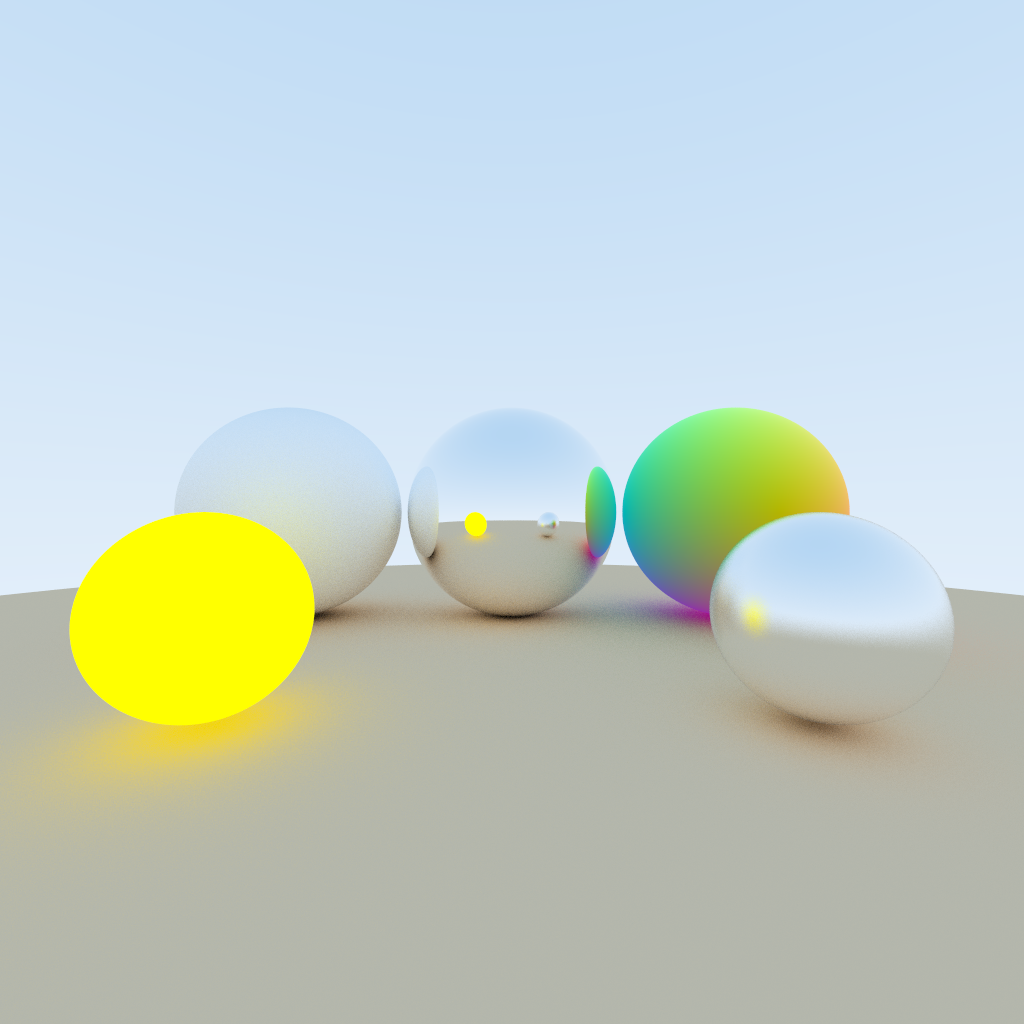
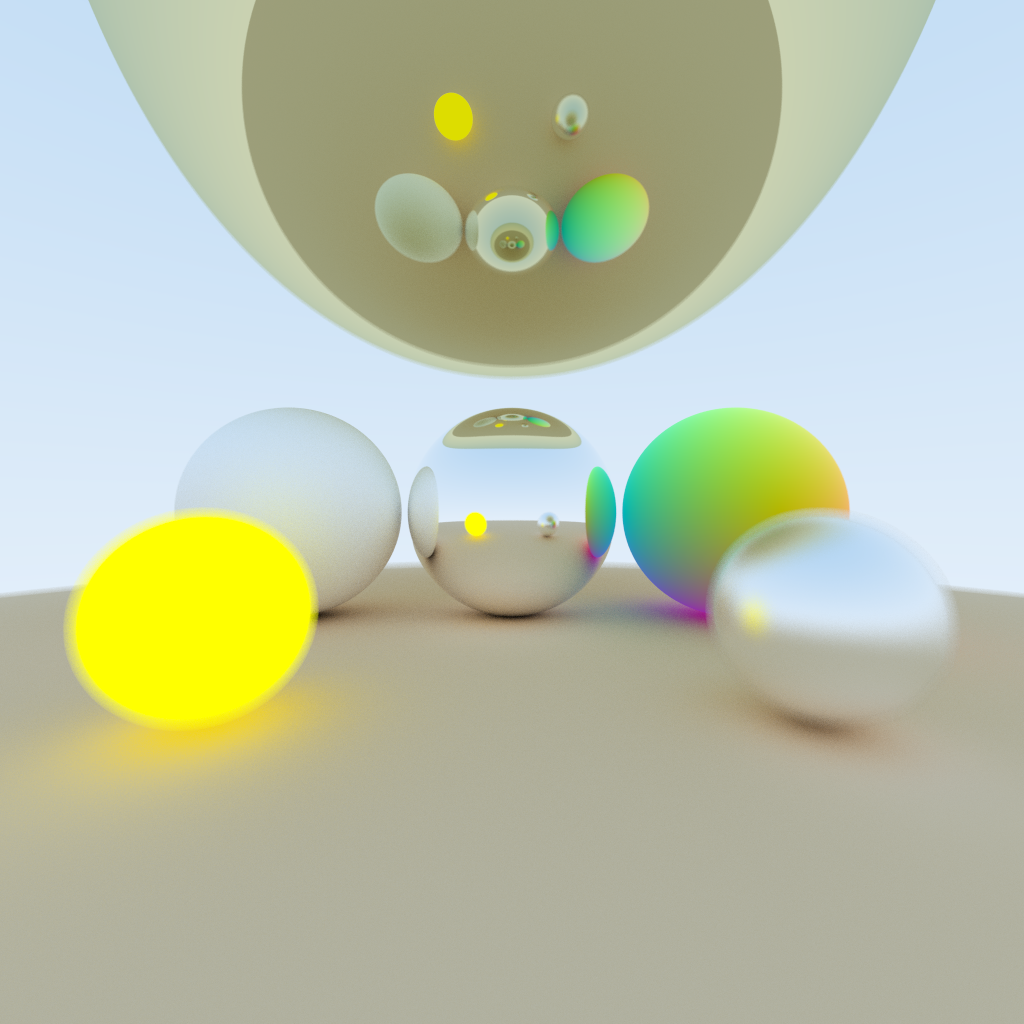
Added simple DOF.

diff --git a/src/main.rs b/src/main.rs
@@ -16,29 +16,50 @@ use scene::{ Hitable, Scene, Sphere, Material };
 
 const IMAGE_WIDTH: u32 = 1024;
 const IMAGE_HEIGHT: u32 = 1024;
-const PIXEL_SAMPLES: u32 = 128;
+const PIXEL_SAMPLES: u32 = 255;
 const MAX_DEPTH: u32 = 8;
+const LENS_RADIUS: f32 = 0.05;
+const FOCAL_DISTANCE: f32 = 5.0;
+
+fn generate_ray((x, y): (u32, u32), rng: &mut ThreadRng) -> Ray {
+    let pixel_sample_u: f32 = rng.gen();
+    let pixel_sample_v: f32 = rng.gen();
+    let pixel_u: f32 = (x as f32 + pixel_sample_u) / IMAGE_WIDTH as f32;
+    let pixel_v: f32 = 1.0 - (y as f32 + pixel_sample_v) / IMAGE_HEIGHT as f32;
+    let mut ray = Ray::new(
+        Vec3::new(0.0, 0.0, -5.0),
+        Vec3::new(-1.0 + pixel_u * 2.0, -1.0 + pixel_v * 2.0, 1.0),
+    );
+    ray.d.normalize();
+    let focus_point = ray.point_at(FOCAL_DISTANCE / ray.d.z);
+    let mut lens_sample = Vec3::new(0.0, 0.0, 0.0);
+    loop {
+        let (u, v): (f32, f32) = (rng.gen(), rng.gen());
+        lens_sample.x = 2.0 * u - 1.0;
+        lens_sample.y = 2.0 * v - 1.0;
+        lens_sample.z = 0.0;
+        if length_squared(&lens_sample) < 1.0 {
+            break;
+        }
+    }
+    lens_sample.normalize();
+    ray.o.x += lens_sample.x * LENS_RADIUS;
+    ray.o.y += lens_sample.y * LENS_RADIUS;
+    ray.d = &focus_point - &ray.o;
+    ray.d.normalize();
+    ray
+}
 
 fn render_scene(scene: &Scene, output_filename: &String) {
     let mut rng = rand::thread_rng();
-    let mut ray = Ray::new(
-        Vec3::new(0.0, 0.0, -5.0),
-        Vec3::new(0.0, 0.0, 1.0),
-    );
     let mut data = [0; IMAGE_WIDTH as usize * IMAGE_HEIGHT as usize * 4];
     let mut i = 0;
     for y in 0..IMAGE_HEIGHT {
         for x in 0..IMAGE_WIDTH {
             let mut color = Vec3::new(0.0, 0.0, 0.0);
             for _sample in 0..PIXEL_SAMPLES {
-                let ud: f32 = rng.gen();
-                let u: f32 = (x as f32 + ud as f32) / IMAGE_WIDTH as f32;
-                let vd: f32 = rng.gen();
-                let v: f32 = 1.0 - (y as f32 + vd) / IMAGE_HEIGHT as f32;
-                ray.d.x = -1.0 + u * 2.0;
-                ray.d.y = -1.0 + v * 2.0;
-                ray.d.z = 1.0;
-                let c = trace(&scene, &ray, &mut rng, 0);
+                let ray = generate_ray((x, y), &mut rng);
+                let c = trace_ray(&scene, &ray, &mut rng, 0);
                 color += &c;
             }
             color *= 1.0 / PIXEL_SAMPLES as f32;
@@ -58,7 +79,7 @@ fn render_scene(scene: &Scene, output_filename: &String) {
     png_writer.write_image_data(&data).unwrap();
 }
 
-fn trace(scene: &Scene, ray: &Ray, rng: &mut ThreadRng, depth: u32) -> Vec3 {
+fn trace_ray(scene: &Scene, ray: &Ray, rng: &mut ThreadRng, depth: u32) -> Vec3 {
     if depth >= MAX_DEPTH {
         return Vec3::new(0.0, 0.0, 0.0);
     }
@@ -82,7 +103,7 @@ fn trace(scene: &Scene, ray: &Ray, rng: &mut ThreadRng, depth: u32) -> Vec3 {
                 new_ray.o.x += 0.001 * new_ray.d.x;
                 new_ray.o.y += 0.001 * new_ray.d.y;
                 new_ray.o.z += 0.001 * new_ray.d.z;
-                let c = trace(scene, &new_ray, rng, depth + 1);
+                let c = trace_ray(scene, &new_ray, rng, depth + 1);
                 Vec3::new(
                     albedo.x * c.x,
                     albedo.y * c.y,
@@ -109,7 +130,7 @@ fn trace(scene: &Scene, ray: &Ray, rng: &mut ThreadRng, depth: u32) -> Vec3 {
                 new_ray.o.x += 0.001 * new_ray.d.x;
                 new_ray.o.y += 0.001 * new_ray.d.y;
                 new_ray.o.z += 0.001 * new_ray.d.z;
-                let c = trace(scene, &new_ray, rng, depth + 1);
+                let c = trace_ray(scene, &new_ray, rng, depth + 1);
                 Vec3::new(
                     albedo.x * c.x,
                     albedo.y * c.y,
@@ -141,6 +162,7 @@ fn trace(scene: &Scene, ray: &Ray, rng: &mut ThreadRng, depth: u32) -> Vec3 {
 
 fn main() {
     let spheres = vec!(
+        Sphere::new(Vec3::new(0., 7.0, 2.0), 5.0, Material::Metal(Vec3::new(0.75, 0.75, 0.5), 0.0)),
         Sphere::new(Vec3::new(0.0, 0.0, 0.0), 1.0, Material::Metal(Vec3::new(1.0, 1.0, 1.0), 0.0)),
         Sphere::new(Vec3::new(-2.1, 0.0, 0.0), 1.0, Material::Diffuse(Vec3::new(1.0, 1.0, 1.0))),
         Sphere::new(Vec3::new(2.1, 0.0, 0.0), 1.0, Material::Normal),

diff --git a/README.md b/README.md
@@ -2,4 +2,7 @@
 
 Simple path tracer implemented in Rust.
 
+## Examples
+
 ![Screenshot](./screenshot.png)
+> res: 1024x1024, spp: 255, threads: 1
